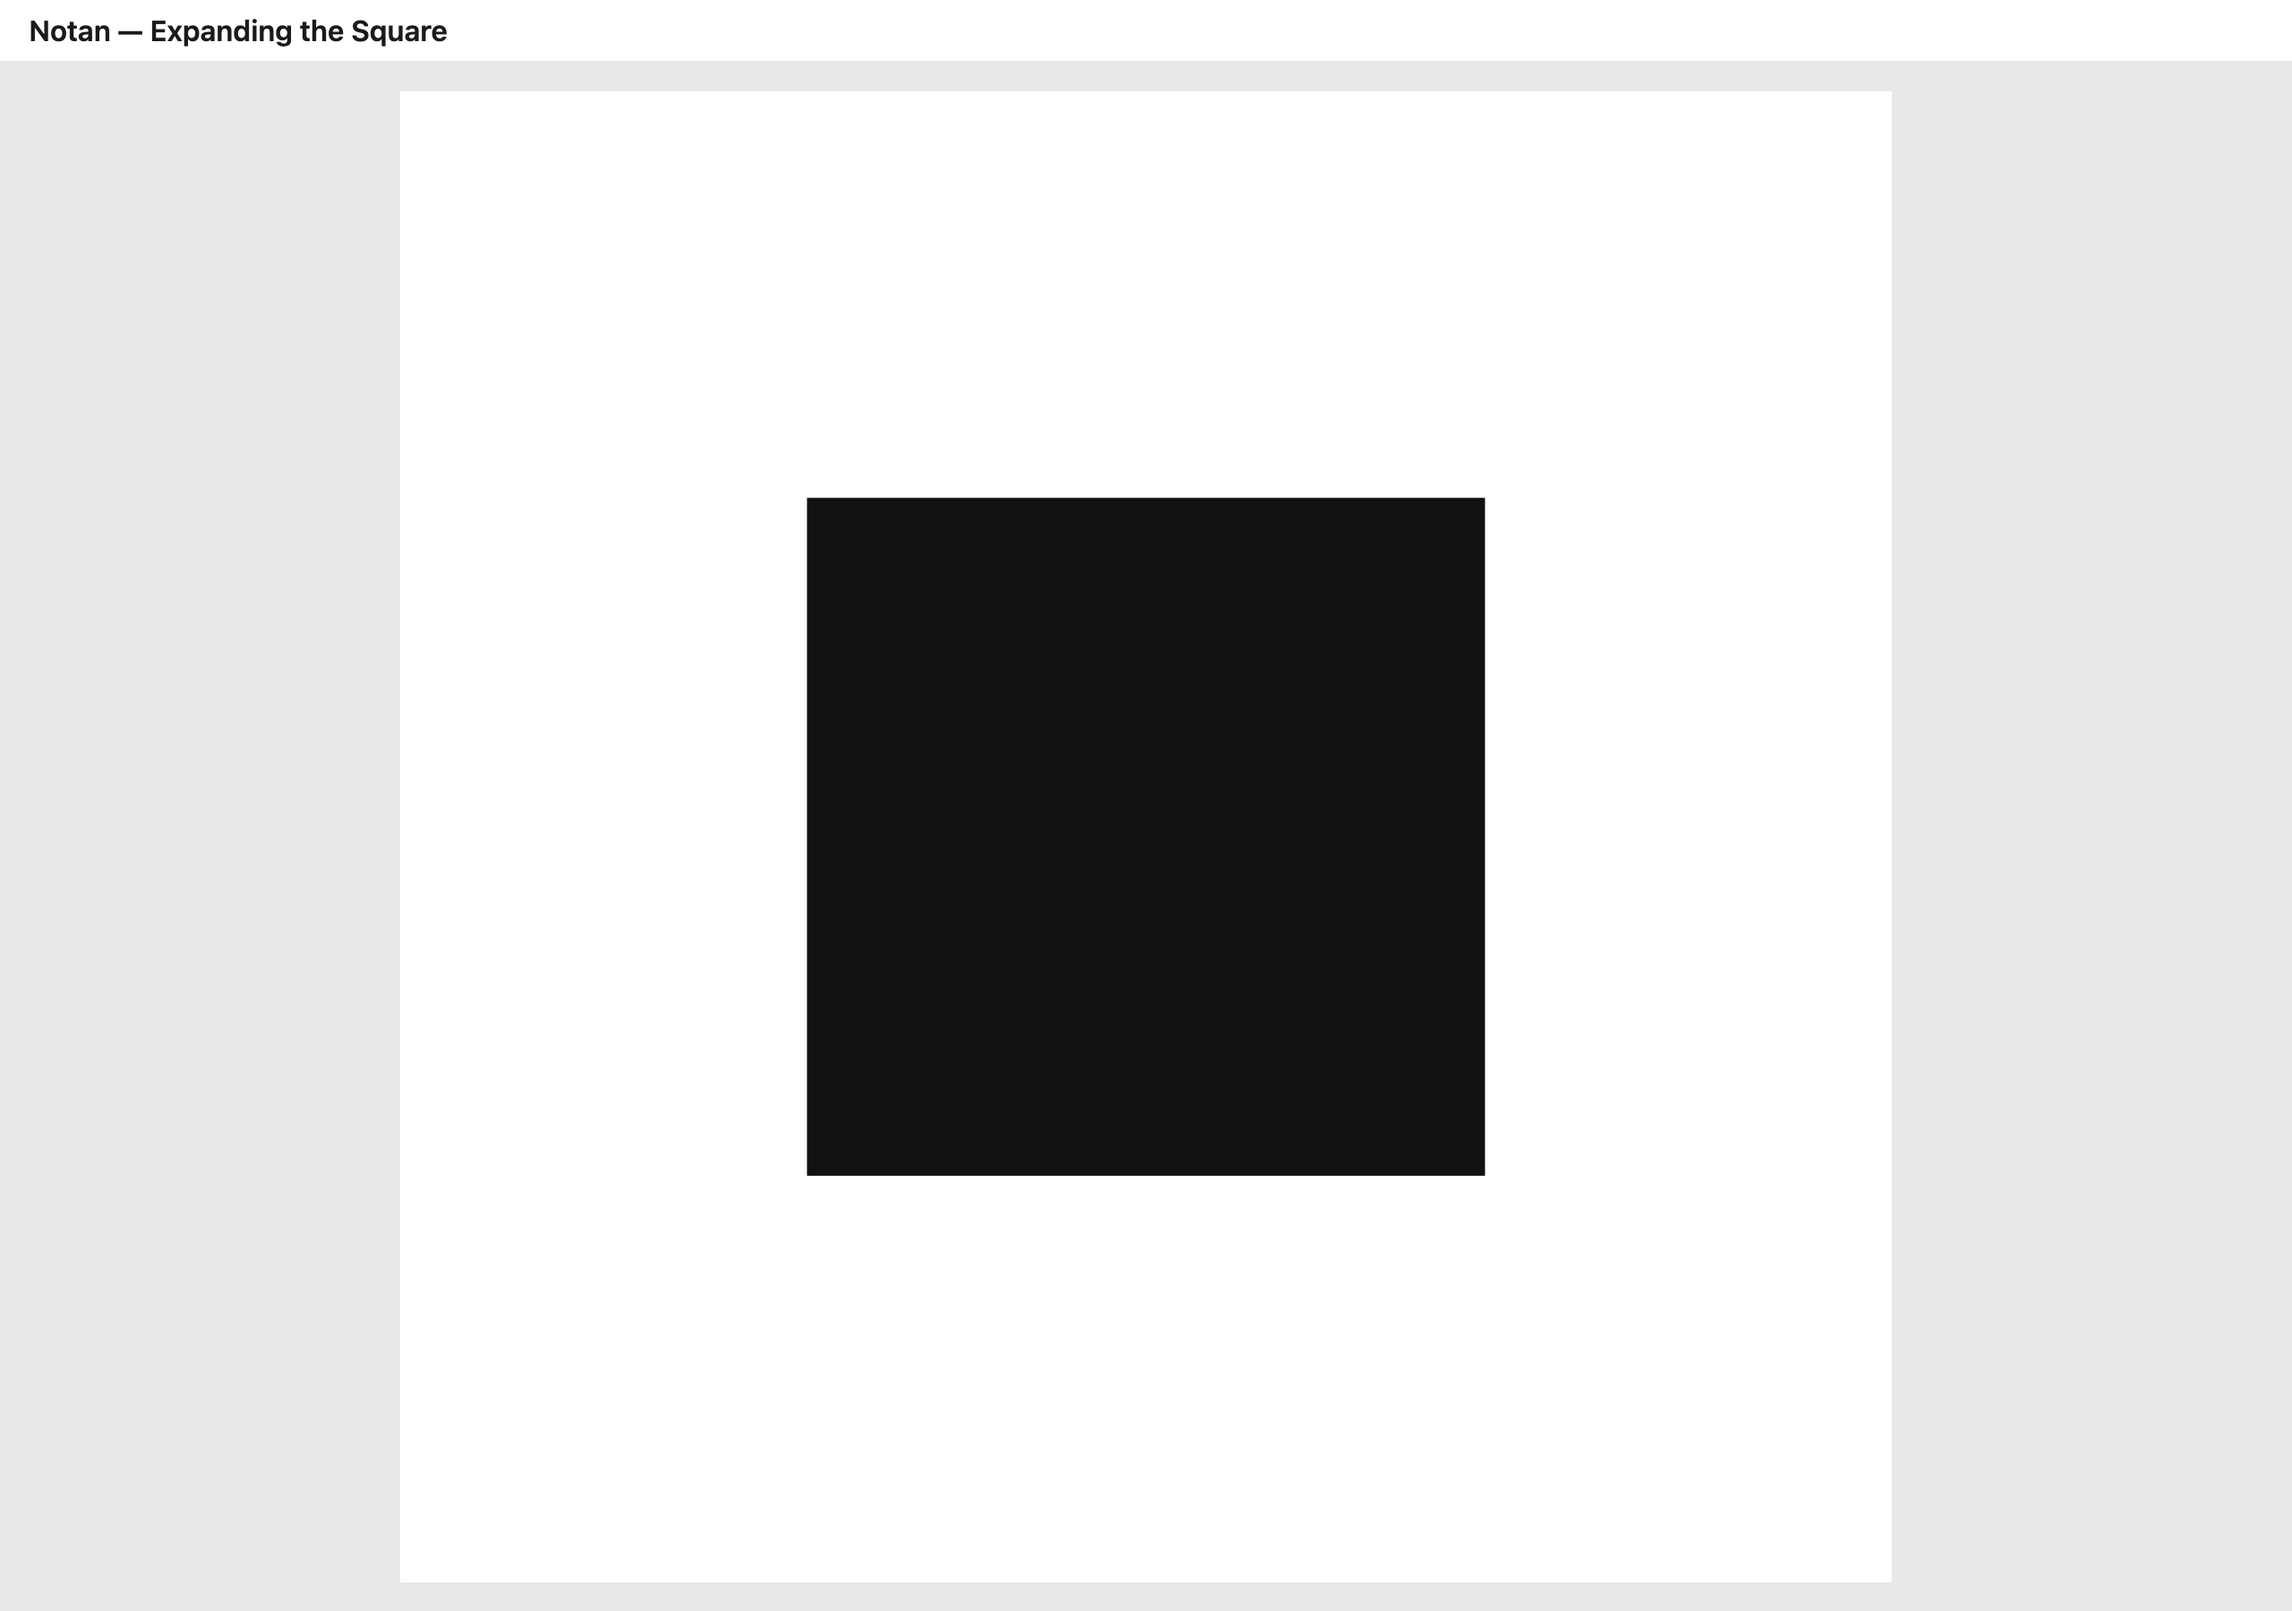
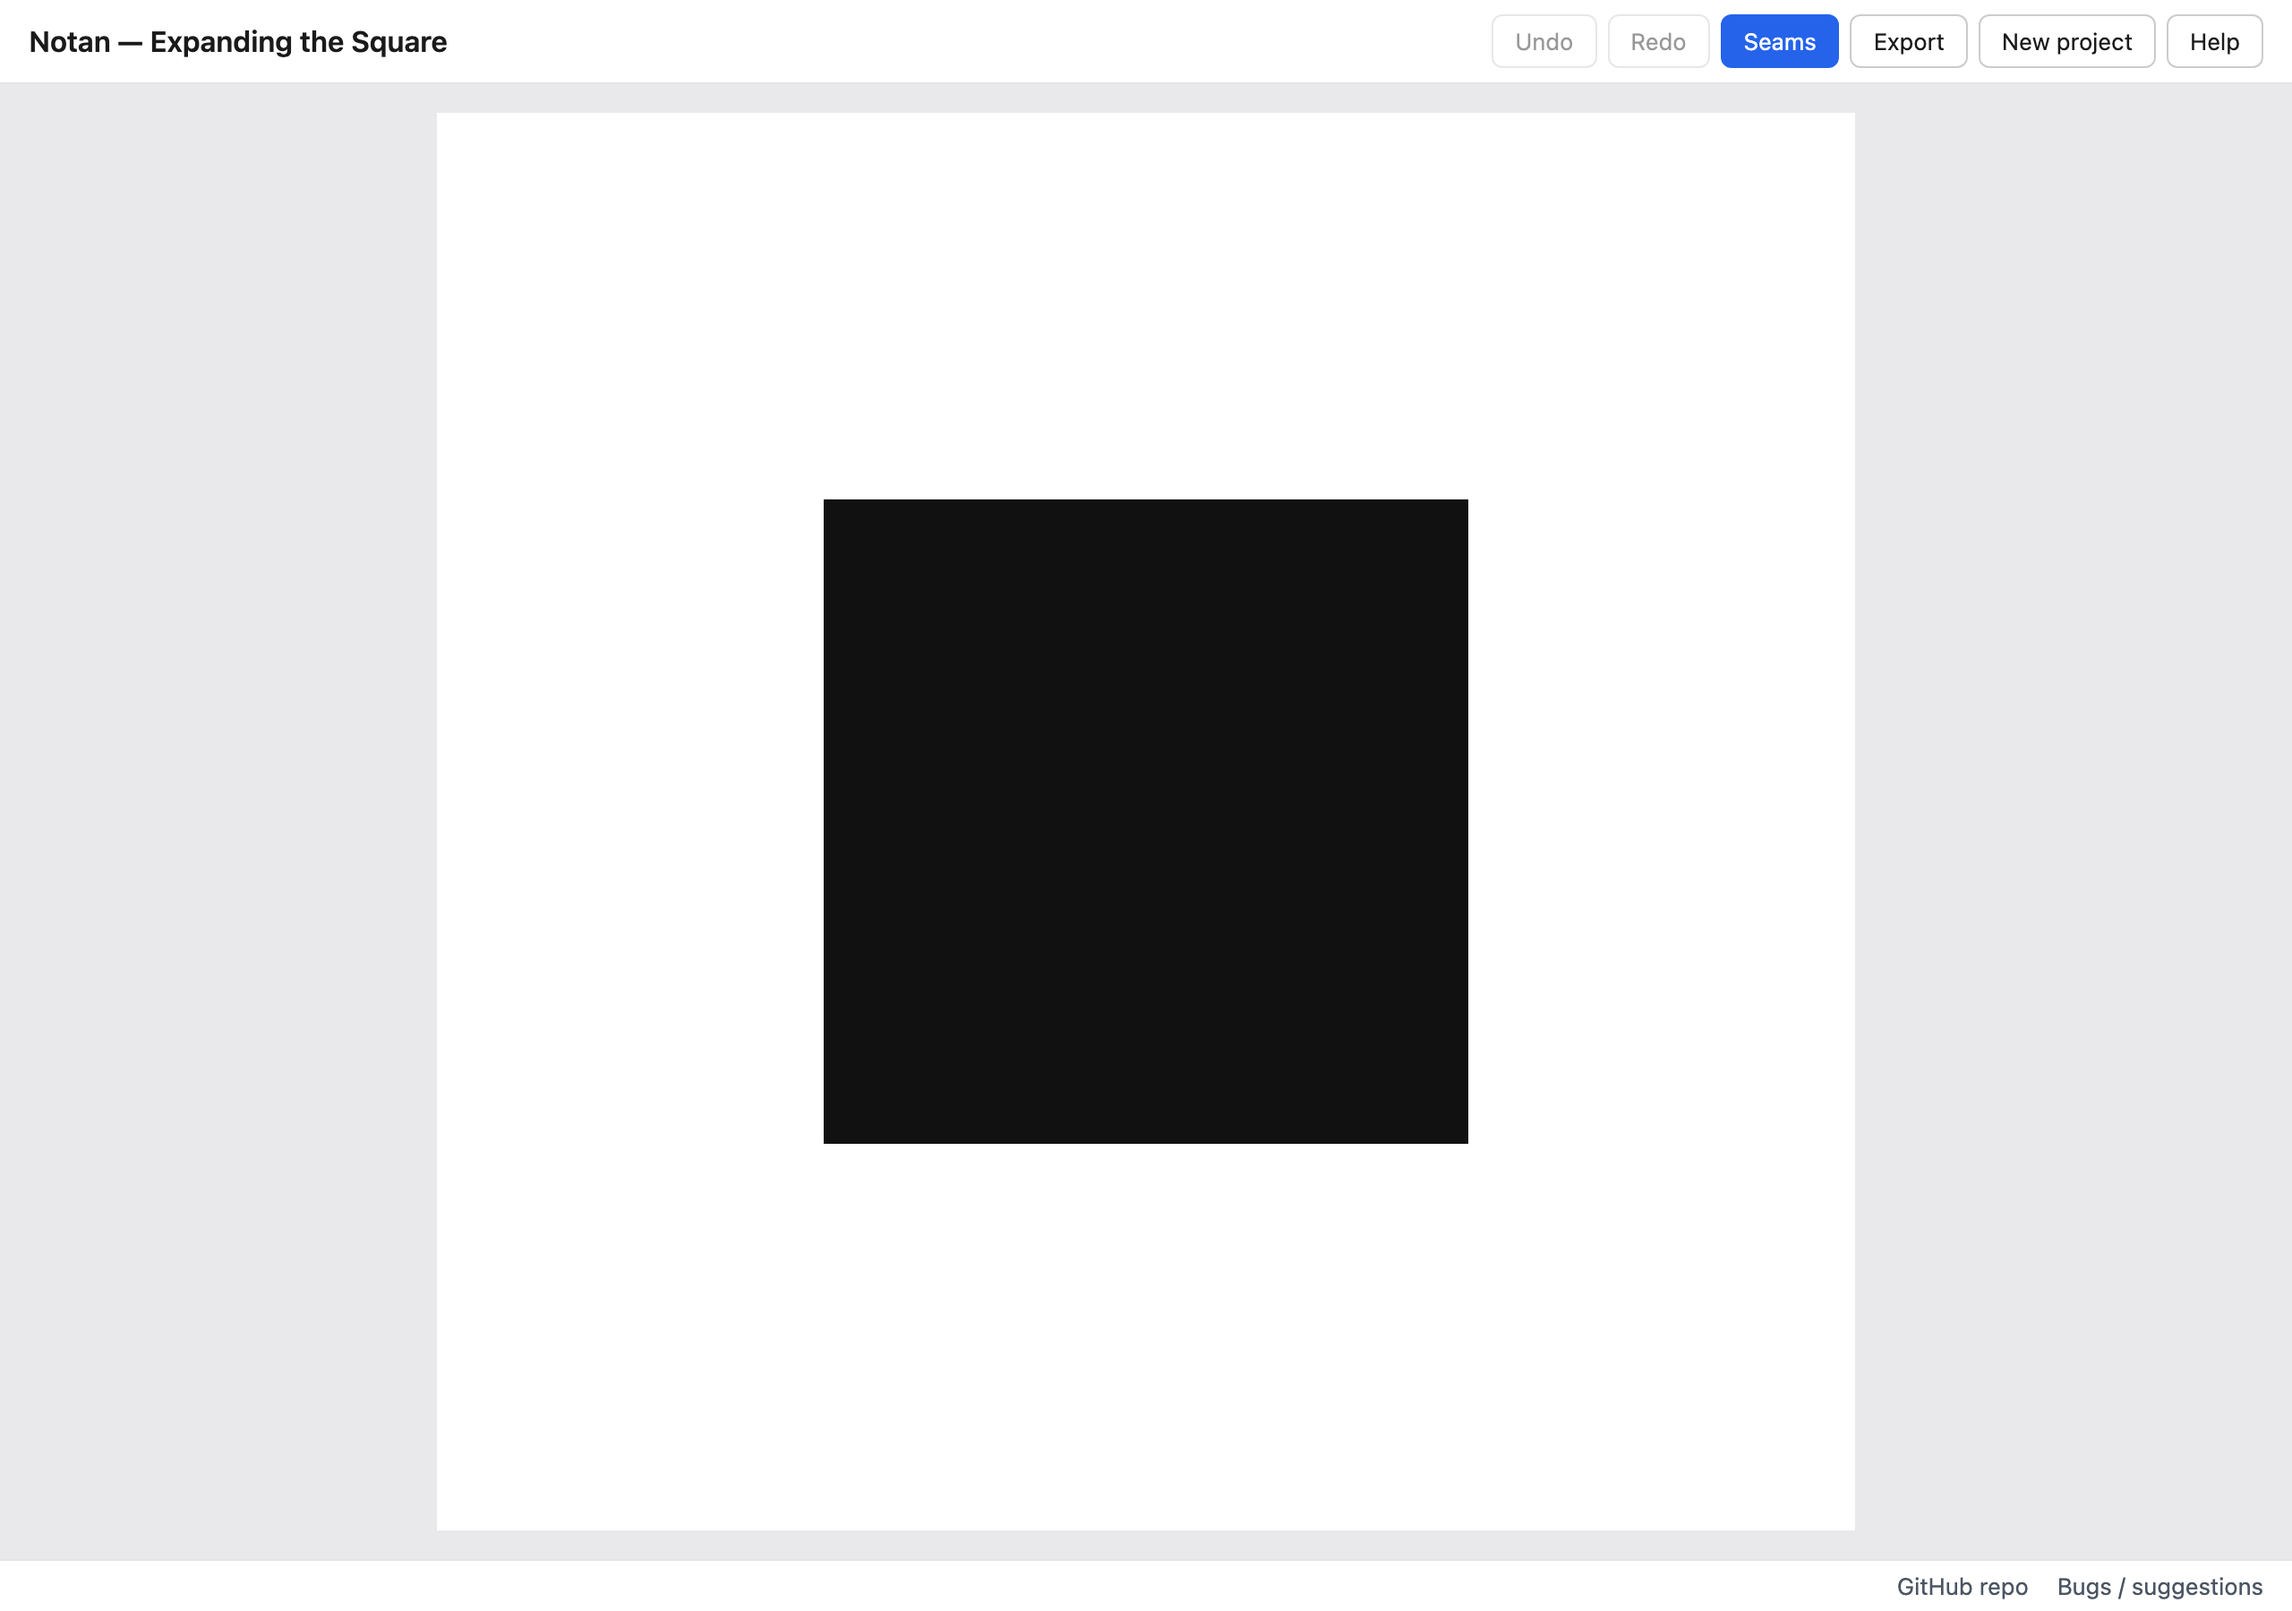
Add README, project links, and footer (M10)
- README with setup, scripts, architecture summary, and links
- lib/links.ts (repo + issues URLs); app footer and Help dialog footer links
  ('GitHub repo', 'Bugs / suggestions'), open in a new tab
- confirm ADRs 0001-0013 present; check/test/build green
- refresh app.png and m9-help.png captures

diff --git a/src/lib/components/HelpDialog.svelte b/src/lib/components/HelpDialog.svelte
@@ -1,4 +1,6 @@
 <script lang="ts">
+  import { ISSUES_URL, REPO_URL } from '../links';
+
   let { open = $bindable(false) }: { open?: boolean } = $props();
 
   let dialog: HTMLDialogElement | undefined;
@@ -63,7 +65,11 @@
     </ul>
   </section>
 
-  <div class="actions">
+  <div class="footer">
+    <nav class="links" aria-label="Project links">
+      <a href={REPO_URL} target="_blank" rel="noopener noreferrer">GitHub repo</a>
+      <a href={ISSUES_URL} target="_blank" rel="noopener noreferrer">Bugs / suggestions</a>
+    </nav>
     <button type="button" onclick={() => (open = false)}>Close</button>
   </div>
 </dialog>
@@ -108,13 +114,30 @@
     padding-left: 1.25rem;
   }
 
-  .actions {
+  .footer {
     display: flex;
-    justify-content: flex-end;
+    align-items: center;
+    justify-content: space-between;
+    gap: 1rem;
     margin-top: 1.25rem;
   }
 
-  .actions button {
+  .links {
+    display: flex;
+    gap: 1rem;
+    font-size: 0.875rem;
+  }
+
+  .links a {
+    color: #2563eb;
+    text-decoration: none;
+  }
+
+  .links a:hover {
+    text-decoration: underline;
+  }
+
+  .footer button {
     padding: 0.4375rem 0.875rem;
     border: 1px solid rgba(0, 0, 0, 0.2);
     border-radius: 0.375rem;
@@ -125,7 +148,7 @@
     cursor: pointer;
   }
 
-  .actions button:focus-visible {
+  .footer button:focus-visible {
     outline: 2px solid #2563eb;
     outline-offset: 2px;
   }

diff --git a/src/App.svelte b/src/App.svelte
@@ -1,6 +1,7 @@
 <script lang="ts">
   import Canvas from './lib/components/Canvas.svelte';
   import Toolbar from './lib/components/Toolbar.svelte';
+  import { ISSUES_URL, REPO_URL } from './lib/links';
   import { redo, undo } from './lib/state/project.svelte';
 
   function onKeydown(event: KeyboardEvent): void {
@@ -23,4 +24,9 @@
   <main class="app__workspace">
     <Canvas />
   </main>
+
+  <footer class="app__footer">
+    <a href={REPO_URL} target="_blank" rel="noopener noreferrer">GitHub repo</a>
+    <a href={ISSUES_URL} target="_blank" rel="noopener noreferrer">Bugs / suggestions</a>
+  </footer>
 </div>

diff --git a/src/app.css b/src/app.css
@@ -53,3 +53,23 @@ body {
   flex: 1 1 auto;
   min-height: 0;
 }
+
+.app__footer {
+  display: flex;
+  flex: 0 0 auto;
+  justify-content: flex-end;
+  gap: 1rem;
+  padding: 0.375rem 1rem;
+  background: var(--surface);
+  border-top: 1px solid var(--border);
+  font-size: 0.8125rem;
+}
+
+.app__footer a {
+  color: #4b5563;
+  text-decoration: none;
+}
+
+.app__footer a:hover {
+  text-decoration: underline;
+}

diff --git a/src/lib/links.ts b/src/lib/links.ts
@@ -1,0 +1,3 @@
+/** Project links shown in the UI (help dialog and app footer). */
+export const REPO_URL = 'https://github.com/thudfactor/expanding-notan';
+export const ISSUES_URL = `${REPO_URL}/issues`;

diff --git a/README.md b/README.md
@@ -1,0 +1,60 @@
+# Notan — Expanding the Square
+
+A web tool for making digital versions of the **"expanding the square"** Notan exercise.
+Start with a black square, cut freehand shapes, and reflect the cut pieces outward across
+the square's edges. Following the rules of Notan is the user's responsibility — the tool
+does not enforce them.
+
+- Front-end only (no backend); work in progress is saved to `localStorage`.
+- Freehand drawing only; multi-level undo/redo; PNG and SVG export; toggleable seam lines.
+
+## Tech stack
+
+Vite · Svelte 5 (runes) · TypeScript · Paper.js · Vitest · Playwright (screenshots)
+
+## Getting started
+
+```sh
+npm install
+npm run dev
+```
+
+Then open the printed local URL and start drawing on the square.
+
+## Scripts
+
+| Command | Description |
+| --- | --- |
+| `npm run dev` | Start the Vite dev server |
+| `npm run build` | Production build to `dist/` |
+| `npm run preview` | Preview the production build |
+| `npm test` | Run unit tests with Vitest |
+| `npm run check` | Type-check Svelte components and TypeScript |
+| `npm run shot -- <name> [w] [h] [interaction]` | Capture a screenshot into `docs/screenshots/` |
+
+The screenshot script's optional `interaction` can be one of `draw`, `commit`, `undo`,
+`reload`, `seams-off`, `export`, `help`, or `pen` to drive the app before capturing.
+
+## How it works
+
+- The artwork is a black silhouette on a white artboard. The single source of truth is an
+  ordered log of cut operations (`CutOp[]`); the silhouette is derived by replaying it
+  (`subtract` each cut region, `unite` its mirrored copy).
+- Reflection axes are always the four original square edges.
+- Cuts must close on themselves or start and end on an edge of the current silhouette.
+- Simplify/smooth is a pluggable `StrokeFitter` strategy; raw points are canonical.
+
+See the plan and ADRs below for the full rationale.
+
+## Documentation
+
+- `docs/project_spec.md` — the original project spec
+- `docs/plan/` — the implementation plan (index plus per-topic sections)
+- `adr/` — architecture decision records
+- `docs/ux-concerns.md` — running list of UX issues to address later
+- `docs/screenshots/` — committed visual record, one capture per milestone
+
+## Links
+
+- Repository: https://github.com/thudfactor/expanding-notan
+- Bugs / suggestions: https://github.com/thudfactor/expanding-notan/issues
